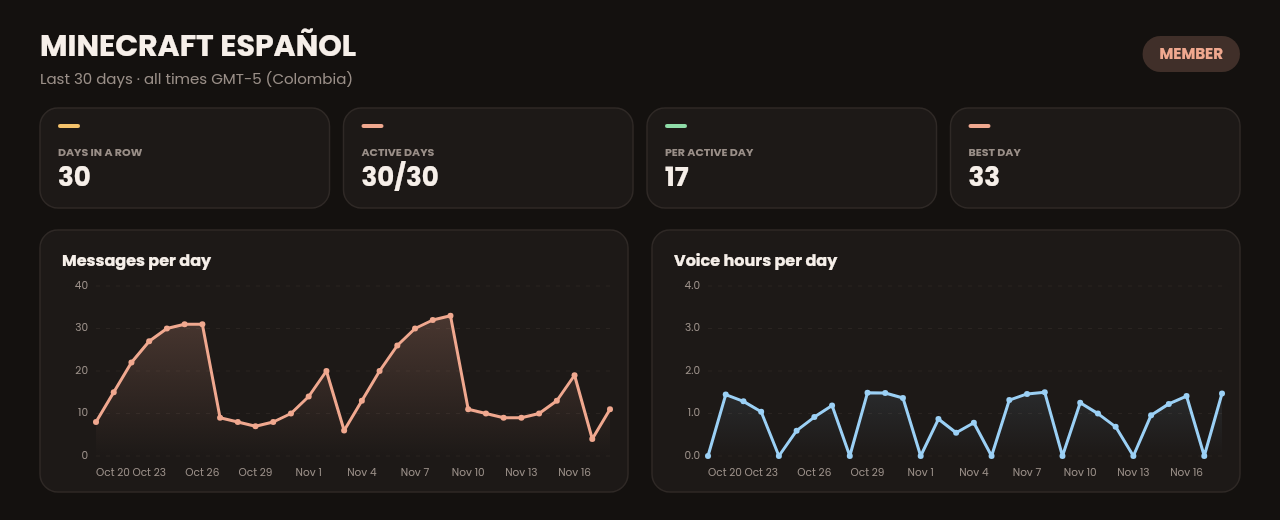
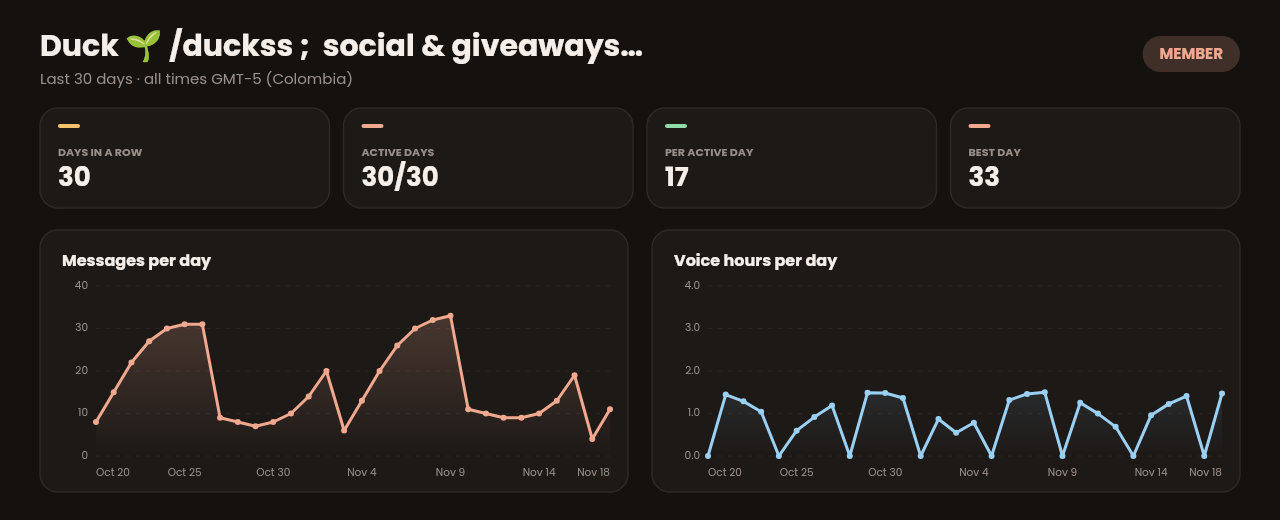
Rules: test pictures use the main server; /stats member pictures show it

diff --git a/CLAUDE.md b/CLAUDE.md
@@ -51,6 +51,7 @@ No line that names the assistant or signs the work, in any commit or pull reques
 - **Global, not page by page.** A behavior or a look (a switch, a list, a bar, a color) is made once in the shared piece and every page gets it; never fixed one page at a time.
 - **Colors of the dashboard.** Green to save, add, confirm and for what is chosen; red to delete. The peach is for the brand, links and focus, not for buttons or selected things. Where a color clashes with another, change it.
 - **Pictures and screenshots** in dark mode, cut to what is shown: no empty space around it, no half-hidden parts. Look at them on a phone width too.
+- **Test pictures use the main server.** Every sample picture or screenshot made to try something (the Currently log, the wikis, the checks of a pull request) that shows a server name or a server picture uses the main server: id `1414452131850879080`, with its name and icon as Discord gives them now (`https://discord.com/api/v10/invites/GXRfVf3wpf` has both; the icon is `https://cdn.discordapp.com/icons/<id>/<icon>.png`), never an invented server.
 - **No empty space** in the layouts, on a wide window or on a phone.
 - **Say the truth about what was checked.** Say what was tried (and how) and what was not (a real phone, the live site, a real server). A fix that could not be reproduced is said so.
 - **Answers to the maintainer** are in short, warm Spanish, with the links and the state of each pull request, and what he has to do (merge order, restart the bot).
